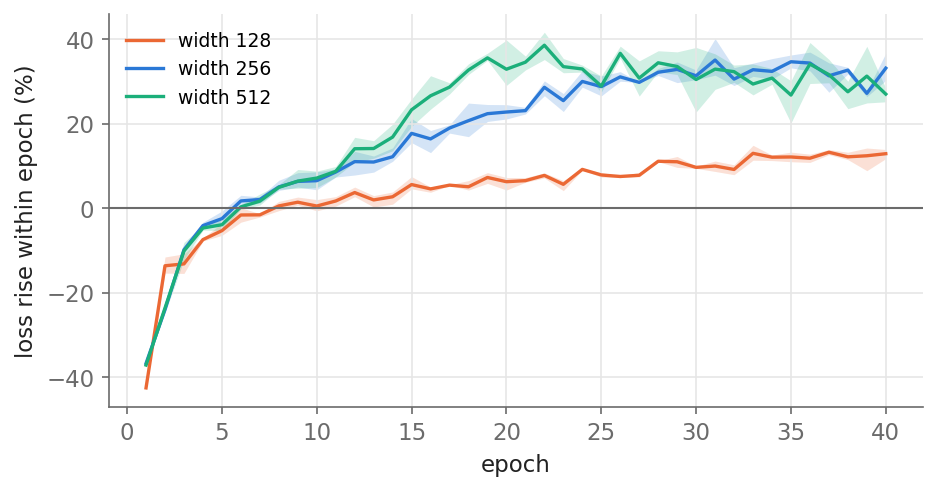
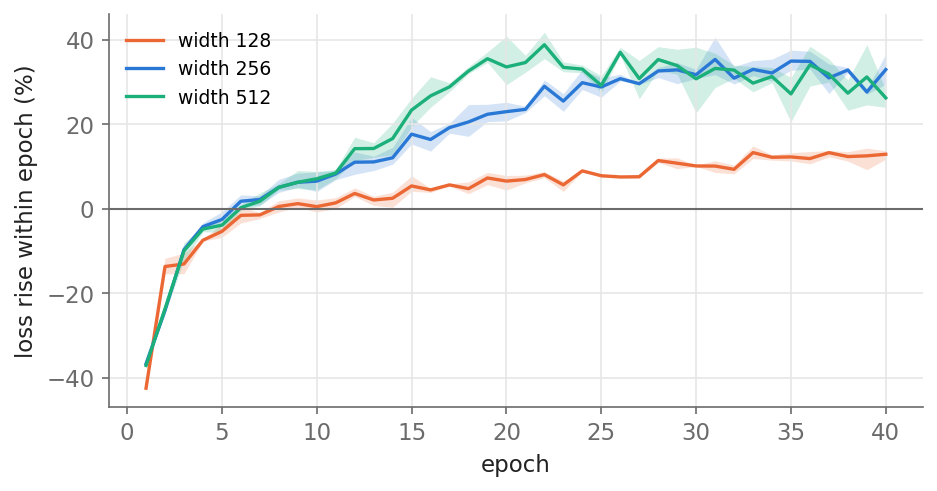
Fix the first/last 10% slice in stats and plot; report absolute rise by width

diff --git a/stats.py b/stats.py
@@ -10,7 +10,13 @@ E0, E1 = 25, 35  # epochs averaged over
 
 
 def rise(x, K):  # last 10% of each epoch vs first 10%, in percent
-    return (x[:, -K // 10:].mean() / x[:, :K // 10].mean() - 1) * 100
+    n = max(1, K // 10)
+    return (x[:, -n:].mean() / x[:, :n].mean() - 1) * 100
+
+
+def abs_rise(x, K):  # same, as an absolute change in loss
+    n = max(1, K // 10)
+    return x[:, -n:].mean() - x[:, :n].mean()
 
 
 print(f"Loss change within an epoch (epochs {E0}-{E1 - 1}, last 10% vs first 10% of steps)")
@@ -29,13 +35,22 @@ for s in range(3):
     r.append((l[m & (qf > .9)].mean() / l[m & (qf < .1)].mean() - 1) * 100)
 print(f"  {np.mean(r):+6.1f}%   seeds: " + " ".join(f"{x:+.1f}%" for x in r))
 
-print("\nShuffle, loss change within epoch 15, by width")
+print("\nShuffle, loss change within epoch 15, by width (relative and absolute)")
 for w in [128, 256, 512]:
-    r = []
+    r, a = [], []
     for s in range(3):
-        d = np.load(R.format("shuffle", w, s)); K = int(d["K"])
-        r.append(rise(d["batch_loss"].reshape(-1, K)[14:15], K))
-    print(f"  width {w:3d} {np.mean(r):+6.1f}%")
+        d = np.load(R.format("shuffle", w, s)); K = int(d["K"]); x = d["batch_loss"].reshape(-1, K)[14:15]
+        r.append(rise(x, K)); a.append(abs_rise(x, K))
+    print(f"  width {w:3d} {np.mean(r):+6.1f}%  {np.mean(a):+.3f}")
+print("  absolute rise at matched training loss (epochs whose mean loss is in 0.55-0.75):")
+row = []
+for w in [128, 256, 512]:
+    a = []
+    for s in range(3):
+        d = np.load(R.format("shuffle", w, s)); K = int(d["K"]); x = d["batch_loss"].reshape(-1, K); m = x.mean(1)
+        a += [abs_rise(x[e:e + 1], K) for e in range(len(x)) if 0.55 <= m[e] <= 0.75]
+    row.append(f"width {w}: {np.mean(a):+.3f}")
+print("    " + ", ".join(row))
 
 print("\nShuffle, loss change within an epoch by batch size")
 def bs_run(b, s):

diff --git a/plot.py b/plot.py
@@ -149,7 +149,8 @@ save(fig, "fixed_subset.png")
 
 # 6. capacity
 def rise(bl, K):
-    x = bl.reshape(-1, K); return (x[:, -K // 10:].mean(1) / x[:, :K // 10].mean(1) - 1) * 100
+    x = bl.reshape(-1, K); n = max(1, K // 10)
+    return (x[:, -n:].mean(1) / x[:, :n].mean(1) - 1) * 100
 
 
 fig, ax = plt.subplots(figsize=(7, 3.4))

diff --git a/README.md b/README.md
@@ -16,7 +16,7 @@ When a model is trained for many epochs with per-epoch shuffling, the training l
 |---|---|---|
 | Shuffle every epoch | uniform on $[q+1, q+K]$ | **+32%** |
 | No shuffle | $K$ | −6% |
-| With replacement | geometric, mean $K$ | −4% |
+| With replacement | geometric, mean $\approx K$ | −4% |
 | Reverse every epoch | $1 + 2q$ | **+64%** |
 
 ## Reproduce
